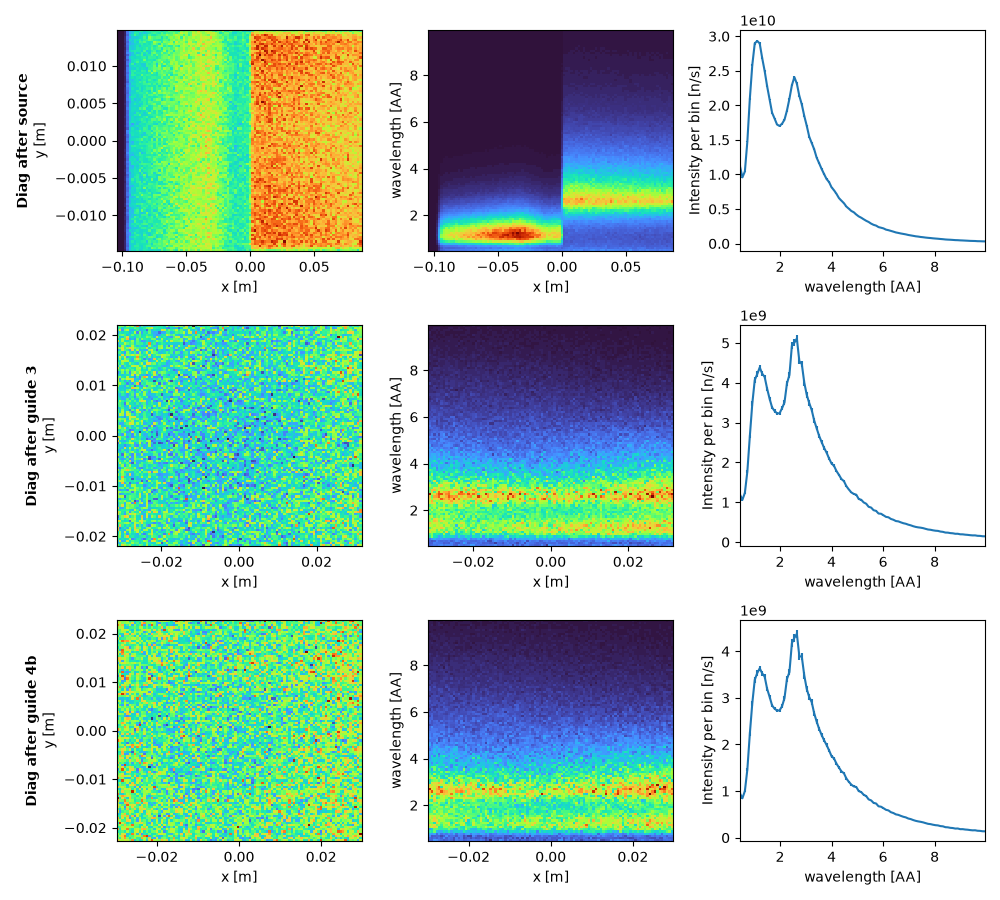
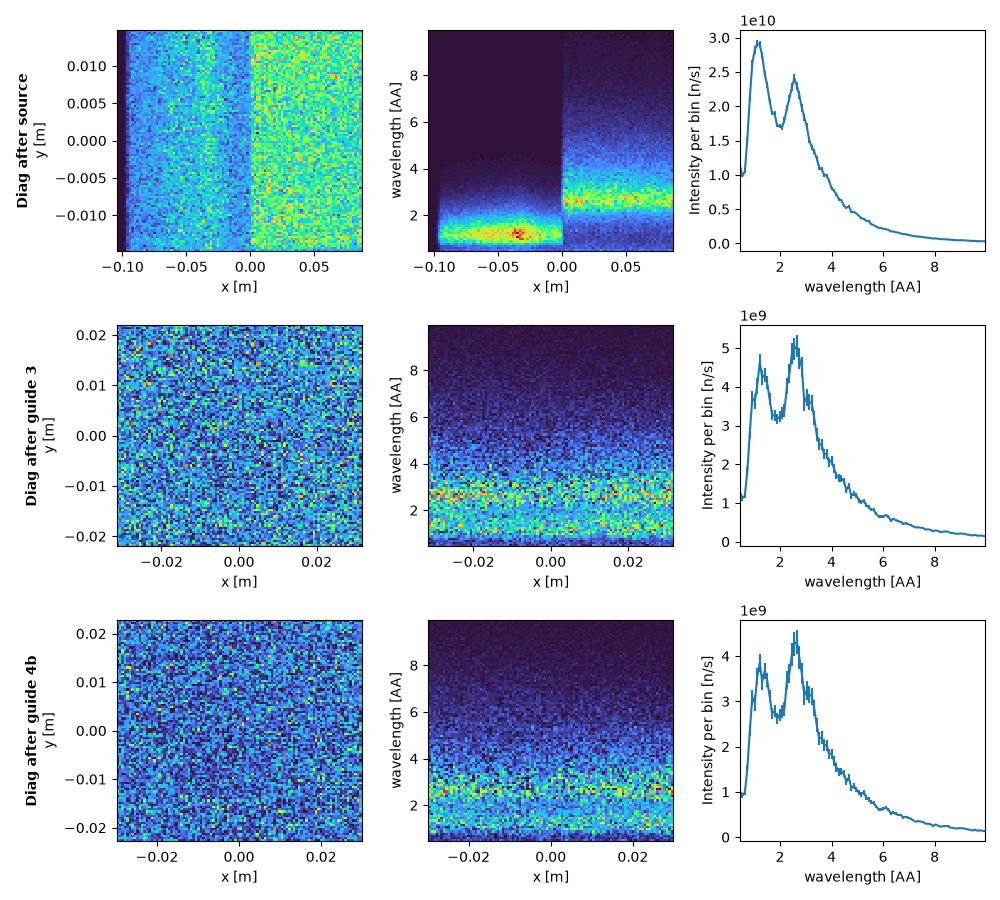
Run McStasScript's diagnostics of the extraction with 1e6 neutrons
They list every ray at three positions, 1.8 GB per path at 1e7. The
comparison with tof now reads the monitors from the run of the diagram,
still at 1e7, so its figures and totals are unchanged.

diff --git a/src/mcdgs/diagnostics/trex_02_extraction.py b/src/mcdgs/diagnostics/trex_02_extraction.py
@@ -53,6 +53,10 @@ from mcdgs.mcstas.run_folders import default_output_dir, run_folder
 from mcdgs.tof.builder import build_tof
 from mcdgs.tof.reader import monitor_bins
 
+# McStas neutrons of the run with McStasScript's diagnostics, which lists every ray at each of its
+# three positions: about 180 MB at 1e6
+DIAGNOSTICS_NCOUNT = 1e6
+
 # n/s: the range of the intensity axis of McStasScript's diagram, from the source to the beam
 # monitor on both paths, about 1e11 to 1e12 n/s at the defaults
 DIAGRAM_INTENSITY_LIMITS = (5e10, 1.5e12)
@@ -191,13 +195,16 @@ def diagnose_path(
     neutrons: int = 1_000_000,
     seed: int = 1,
     transmission: float = 0.2,
+    diagnostics_ncount: float = DIAGNOSTICS_NCOUNT,
 ) -> list[Path]:
     """Run one path through guide 4 in McStas and tof, and save its three figures.
 
     McStas runs twice, once with McStasScript's diagnostics, the beam after the source, after
     guide 3 and at the exit of guide 4b, and once for its diagram of the intensity before each
-    component; tof runs once. tof is scaled to the total of McStas at the source monitor, where
-    both see the same beam, and by ``transmission`` on top of it at the beam monitor. The
+    component, which also gives the monitors; tof runs once. The diagnostics list every ray at
+    their three positions, so their run has fewer neutrons. tof is scaled to the total of
+    McStas at the source monitor, where both see the same beam, and by ``transmission`` on top
+    of it at the beam monitor. The
     figures, the diagnostics, the diagram and the comparison, are
     ``trex_extraction_bender_out_diagnose.png``, ``trex_extraction_bender_out_intensity.png``
     and ``trex_extraction_bender_out.png``, or ``..._in``.
@@ -209,7 +216,7 @@ def diagnose_path(
     out:
         Folder of the figures. If ``None``, the folder of the McStas run with the diagnostics.
     ncount:
-        Number of McStas neutrons, in each run.
+        Number of McStas neutrons of the run of the diagram and the monitors.
     neutrons:
         Number of tof neutrons.
     seed:
@@ -218,6 +225,8 @@ def diagnose_path(
         The factor on tof at the beam monitor, on top of the scale of the source monitor: the
         fraction of the beam the guides would let through, which tof does not model. 0.2 is
         an estimate, close to the 0.17 McStas has with the bender out at the defaults.
+    diagnostics_ncount:
+        Number of McStas neutrons of the run with the diagnostics.
 
     Returns
     -------
@@ -251,22 +260,27 @@ def diagnose_path(
     folder = run_folder(default_output_dir(), run_name, "diagnose")
     diag.set_parameters(bender_in=int(bender_in))
     diag.settings(
-        ncount=ncount, suppress_output=True, mpi="auto", seed=seed, output_path=str(folder)
+        ncount=diagnostics_ncount,
+        suppress_output=True,
+        mpi="auto",
+        seed=seed,
+        output_path=str(folder),
     )
-    diag.run()  # a whole McStas run: its folder also holds the beam monitor
+    diag.run()
     diag.plot()  # draws on a new figure, which it does not return
     figure_folder = output_folder(out, folder)
     figures = [_save(plt.gcf(), figure_folder / f"{run_name}_diagnose.png", dpi=100)]
 
     # McStasScript's diagram of the components, with the intensity and the rays before each:
-    # a McStas run of its own, in a folder of its own
+    # a McStas run of its own, in a folder of its own, which also holds the monitors
+    intensity_folder = run_folder(default_output_dir(), f"{run_name}_intensity", "diagram")
     mcstas_instr.set_parameters(bender_in=int(bender_in))
     mcstas_instr.settings(
         ncount=ncount,
         suppress_output=True,
         mpi="auto",
         seed=seed,
-        output_path=str(run_folder(default_output_dir(), f"{run_name}_intensity", "diagram")),
+        output_path=str(intensity_folder),
     )
     # --8<-- [start:diagram]
     # show_diagram ends in plt.show(), which in a window waits for it to close, and the figure
@@ -281,7 +295,7 @@ def diagnose_path(
     # --8<-- [start:scale_tof]
     # tof's counts are scaled to the total of McStas at the source monitor, in n/s, and by the
     # transmission on top of it at the beam monitor
-    mcstas_data = ms.load_data(str(folder))
+    mcstas_data = ms.load_data(str(intensity_folder))
     comparisons = read_scaled_comparisons(
         mcstas_data,
         tof_result,

diff --git a/docs/instruments/trex/extraction.md b/docs/instruments/trex/extraction.md
@@ -43,8 +43,9 @@ ports.
 the guides, McStasScript's diagram of the intensity before each component, and McStas and tof
 side by side at the beam monitor. The path with the bender is on
 [Bender](bender-scan.md#bender-in-at-the-nominal-rotation), which runs `diagnose_path` with
-the bender in. The figures are `main` at its defaults: 1e7 McStas neutrons per run, 1e6 tof
-neutrons and seed 1.
+the bender in. The figures are `main` at its defaults: 1e6 McStas neutrons in the run with the
+diagnostics, 1e7 in the run of the diagram and the monitors, 1e6 tof neutrons and seed 1. The
+diagnostics list every ray at their three positions, so their run has fewer neutrons.
 
 ## Beam along the guides
 
@@ -67,8 +68,9 @@ After the source the two moderators are side by side: the thermal one at x < 0 w
 width of the guide, and the spectrum still has both peaks. Through guide 4a both peaks reach the
 exit of guide 4.
 
-The maps have 100 × 100 bins, so at 1e7 neutrons each bin holds a few hundred rays and the maps
-are still a little grainy. The spectra, on one axis, are smooth.
+The maps have 100 × 100 bins, so at 1e6 neutrons each bin holds a few tens of rays and the maps
+are grainy, but show the same structure. The spectra, on one axis, are smoother, with the two
+peaks clear at every position; the beam monitor, at 1e7 neutrons, has the spectrum in detail.
 
 ## Intensity along the guides
 
@@ -152,8 +154,9 @@ pixi run python -m mcdgs.diagnostics.trex_02_extraction
 The view from above goes to `mcstas_input/trex_extraction/`, next to the instrument file, and
 the three figures of the path to the folder of its run with the diagnostics,
 `mcstas_output/trex_extraction_bender_out/`. That folder also holds McStasScript's event lists of
-the three diagnostics positions, about 1.8 GB at 1e7 neutrons. The run of the diagram has a
-folder of its own, `mcstas_output/trex_extraction_bender_out_intensity/`. The two McStas runs
+the three diagnostics positions, about 180 MB at 1e6 neutrons. The run of the diagram has a
+folder of its own, `mcstas_output/trex_extraction_bender_out_intensity/`, which also holds the
+monitors that McStas and tof are compared at. The two McStas runs
 take about a minute on 8 cores. Call `main` with
 other numbers for finer or faster figures:
 

diff --git a/docs/instruments/trex/bender-scan.md b/docs/instruments/trex/bender-scan.md
@@ -11,8 +11,9 @@ scan of its rotation, `b_rot`, to show how it passes each band of wavelengths.
 With the bender in at its nominal rotation, the beam goes through the bender and the cold guide
 4b. `main` runs this path after the scan, with `diagnose_path` of
 [Extraction guides](extraction.md), which runs the path without the bender: what is said there of
-the axes, the monitors and the scale of tof holds here too. These figures have 1e7 McStas
-neutrons per run, 1e6 tof neutrons and seed 1.
+the axes, the monitors and the scale of tof holds here too. These figures have 1e6 McStas
+neutrons in the run with the diagnostics, 1e7 in the run of the diagram and the monitors, 1e6
+tof neutrons and seed 1.
 
 <!-- fmt:off -->
 ```python
@@ -140,7 +141,8 @@ This is `main` at its defaults: 1e6 McStas neutrons per angle, and seed 1. The s
 replacing the one of an earlier run, and the figure, `bender_scan.png`, next to the scan.
 `read_angles`, `read_spectra` and `transmission` read the two files again, without running McStas.
 
-Then `main` runs the path with the bender in at its nominal rotation, `path_ncount`, 1e7, McStas
-neutrons per run: its three figures go to `mcstas_output/trex_extraction_bender_in/`, with
-McStasScript's event lists, about 1.8 GB, and the run of the diagram to
+Then `main` runs the path with the bender in at its nominal rotation, with `path_ncount`, 1e7,
+McStas neutrons in the run of the diagram and the monitors: its three figures go to
+`mcstas_output/trex_extraction_bender_in/`, with McStasScript's event lists of the run with the
+diagnostics, about 180 MB at 1e6 neutrons, and the run of the diagram to
 `mcstas_output/trex_extraction_bender_in_intensity/`.
